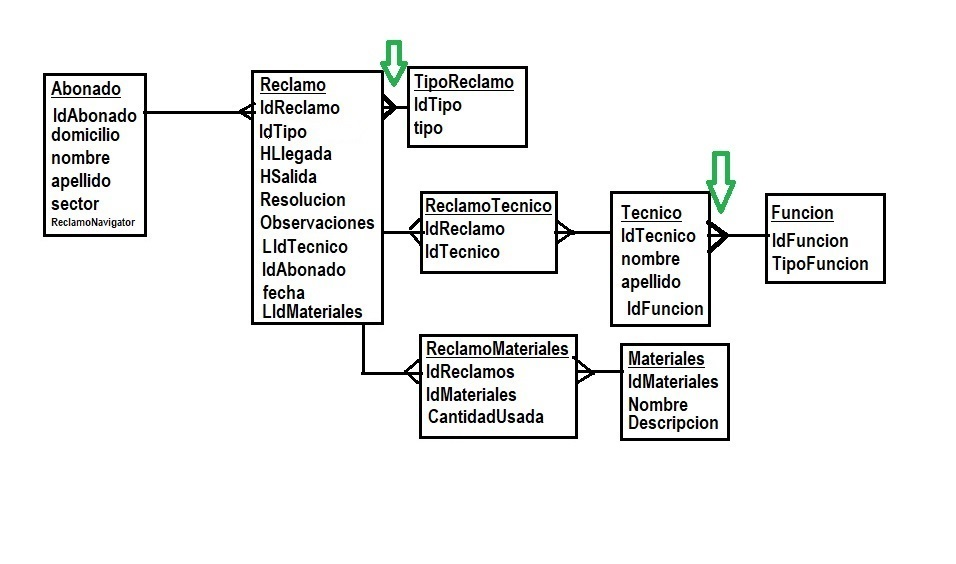
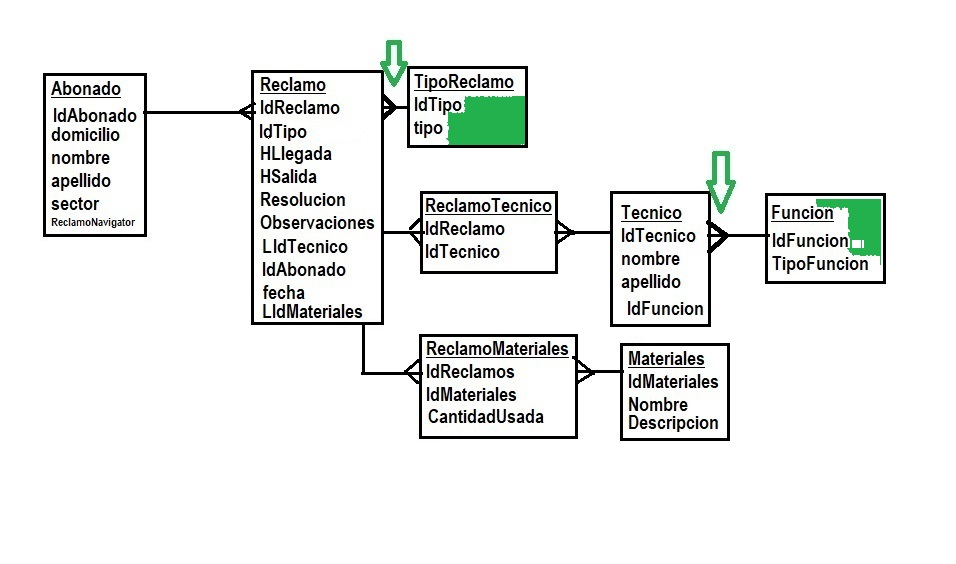
ok Funciones

Changed region(s): [[0.455, 0.1507, 0.5764, 0.2713], [0.8494, 0.3316, 0.9404, 0.4521]]

diff --git a/HR.API/Controllers/FuncionesController.cs b/HR.API/Controllers/FuncionesController.cs
@@ -1,0 +1,139 @@
+using HR.API.Data;
+using HR.API.Data.Entities;
+using Microsoft.AspNetCore.Mvc;
+using Microsoft.EntityFrameworkCore;
+
+namespace HR.API.Controllers
+{
+    public class FuncionesController:Controller
+    {
+        private readonly DataContext _context;
+
+        public FuncionesController(DataContext context)
+        {
+            _context = context;
+        }
+        // GET: ReclamoTypes
+        public async Task<IActionResult> Index()
+        {
+            return View(await _context.Funciones.ToListAsync());
+        }
+
+        // GET: ReclamoTypes/Create
+        public IActionResult Create()
+        {
+            return View();
+        }
+
+        // POST: ReclamoTypes/Create
+
+        [HttpPost]
+        [ValidateAntiForgeryToken]
+        public async Task<IActionResult> Create(Funcion funcion)
+        {
+            if (ModelState.IsValid)
+            {
+                try
+                {
+                    _context.Add(funcion);
+                    await _context.SaveChangesAsync();
+                    return RedirectToAction(nameof(Index));
+                }
+                catch (DbUpdateException dbUpdateException)
+                {
+
+                    if (dbUpdateException.InnerException.Message.Contains("duplicate"))
+                    {
+                        ModelState.AddModelError(string.Empty, "Ya Existe este Tipo de Funcion");
+                    }
+                    else
+                    {
+                        ModelState.AddModelError(string.Empty, dbUpdateException.InnerException.Message);
+                    }
+                }
+                catch (Exception exception)
+                {
+                    ModelState.AddModelError(string.Empty, exception.Message);
+                }
+            }
+            return View(funcion);
+        }
+
+        // GET: ReclamoTypes/Edit/5
+        public async Task<IActionResult> Edit(int? id)
+        {
+            if (id == null || _context.ReclamoTypes == null)
+            {
+                return NotFound();
+            }
+
+            Funcion? funcion = await _context.Funciones.FindAsync(id);
+            if (funcion == null)
+            {
+                return NotFound();
+            }
+            return View(funcion);
+        }
+
+        // POST: ReclamoTypes/Edit/5
+
+        [HttpPost]
+        [ValidateAntiForgeryToken]
+        public async Task<IActionResult> Edit(int id, Funcion funcion)
+        {
+            if (id != funcion.Id)
+            {
+                return NotFound();
+            }
+
+            if (ModelState.IsValid)
+            {
+                try
+                {
+                    _context.Update(funcion);
+                    await _context.SaveChangesAsync();
+                    return RedirectToAction(nameof(Index));
+                }
+                catch (DbUpdateException dbUpdateException)
+                {
+
+                    if (dbUpdateException.InnerException.Message.Contains("duplicate"))
+                    {
+                        ModelState.AddModelError(string.Empty, "Ya Existe este Tipo de Funcion");
+                    }
+                    else
+                    {
+                        ModelState.AddModelError(string.Empty, dbUpdateException.InnerException.Message);
+                    }
+                }
+                catch (Exception exception)
+                {
+                    ModelState.AddModelError(string.Empty, exception.Message);
+                }
+
+            }
+            return View(funcion);
+        }
+
+        // GET: Funciones/Delete/5
+        public async Task<IActionResult> Delete(int? id)
+        {
+            if (id == null || _context.Funciones == null)
+            {
+                return NotFound();
+            }
+
+            Funcion? funcion = await _context.Funciones
+                .FirstOrDefaultAsync(m => m.Id == id);
+            if (funcion == null)
+            {
+                return NotFound();
+            }
+            _context.Funciones.Remove(funcion);
+            await _context.SaveChangesAsync();
+            return RedirectToAction(nameof(Index));
+        }
+
+
+    }
+}

diff --git a/HR.API/Migrations/20221025001344_tableFuncion.cs b/HR.API/Migrations/20221025001344_tableFuncion.cs
@@ -1,0 +1,37 @@
+using Microsoft.EntityFrameworkCore.Migrations;
+
+#nullable disable
+
+namespace HR.API.Migrations
+{
+    public partial class tableFuncion : Migration
+    {
+        protected override void Up(MigrationBuilder migrationBuilder)
+        {
+            migrationBuilder.CreateTable(
+                name: "Funciones",
+                columns: table => new
+                {
+                    Id = table.Column<int>(type: "int", nullable: false)
+                        .Annotation("SqlServer:Identity", "1, 1"),
+                    Descripcion = table.Column<string>(type: "nvarchar(50)", maxLength: 50, nullable: false)
+                },
+                constraints: table =>
+                {
+                    table.PrimaryKey("PK_Funciones", x => x.Id);
+                });
+
+            migrationBuilder.CreateIndex(
+                name: "IX_Funciones_Descripcion",
+                table: "Funciones",
+                column: "Descripcion",
+                unique: true);
+        }
+
+        protected override void Down(MigrationBuilder migrationBuilder)
+        {
+            migrationBuilder.DropTable(
+                name: "Funciones");
+        }
+    }
+}

diff --git a/HR.API/Migrations/20221025001344_tableFuncion.Designer.cs b/HR.API/Migrations/20221025001344_tableFuncion.Designer.cs
@@ -3,6 +3,7 @@ using HR.API.Data;
 using Microsoft.EntityFrameworkCore;
 using Microsoft.EntityFrameworkCore.Infrastructure;
 using Microsoft.EntityFrameworkCore.Metadata;
+using Microsoft.EntityFrameworkCore.Migrations;
 using Microsoft.EntityFrameworkCore.Storage.ValueConversion;
 
 #nullable disable
@@ -10,9 +11,10 @@ using Microsoft.EntityFrameworkCore.Storage.ValueConversion;
 namespace HR.API.Migrations
 {
     [DbContext(typeof(DataContext))]
-    partial class DataContextModelSnapshot : ModelSnapshot
+    [Migration("20221025001344_tableFuncion")]
+    partial class tableFuncion
     {
-        protected override void BuildModel(ModelBuilder modelBuilder)
+        protected override void BuildTargetModel(ModelBuilder modelBuilder)
         {
 #pragma warning disable 612, 618
             modelBuilder

diff --git a/HR.API/Data/Entities/Funcion.cs b/HR.API/Data/Entities/Funcion.cs
@@ -1,0 +1,15 @@
+using System.ComponentModel.DataAnnotations;
+
+namespace HR.API.Data.Entities
+{
+    public class Funcion
+    {
+        public int Id { get; set; }
+        // public string Tipo { get; set; }
+        [Display(Name = "Tipo de Funcion")]
+        [MaxLength(50, ErrorMessage = "El campo{0} no puede tener mas de {1} carácteres")]
+        [Required(ErrorMessage = "El campo{0} es obligatorio")]
+        public string Descripcion { get; set; }
+        // public List<Reclamo>? Reclamo { get; set; }
+    }
+}

diff --git a/HR.API/Data/DataContext.cs b/HR.API/Data/DataContext.cs
@@ -9,10 +9,12 @@ namespace HR.API.Data
         {
 
         }
+        public DbSet<Funcion> Funciones { get; set; }
         public DbSet<ReclamoType> ReclamoTypes { get; set; }
         protected override void OnModelCreating(ModelBuilder modelBuilder)
         {
             base.OnModelCreating(modelBuilder);
+            modelBuilder.Entity<Funcion>().HasIndex(x => x.Descripcion).IsUnique();
             modelBuilder.Entity<ReclamoType>().HasIndex(x => x.Descripcion).IsUnique();
         }
 
